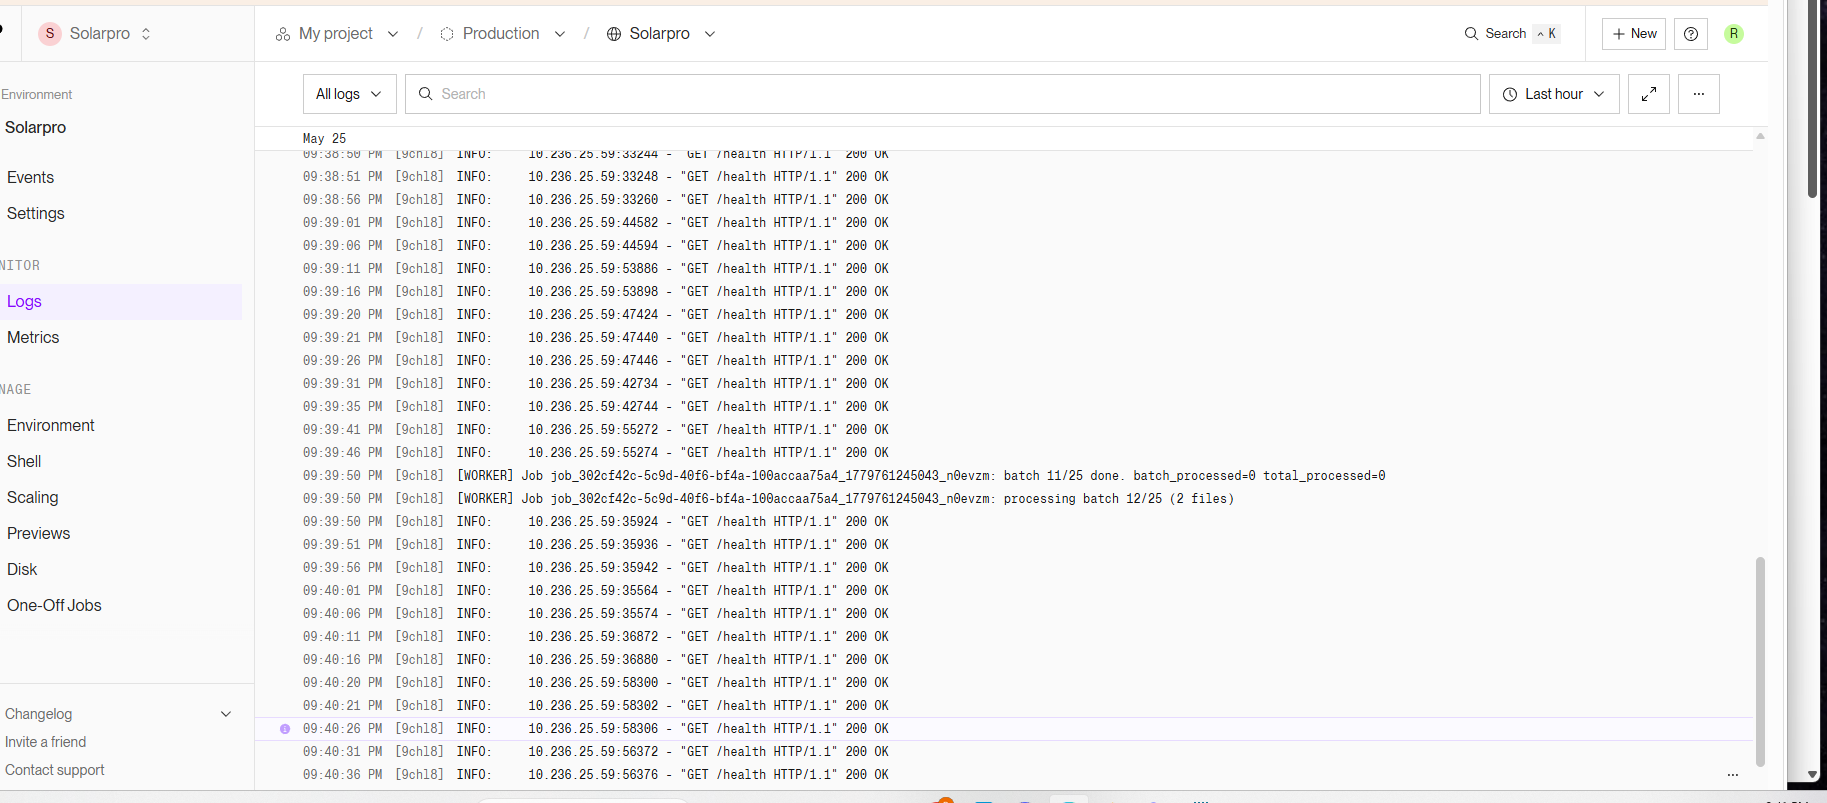
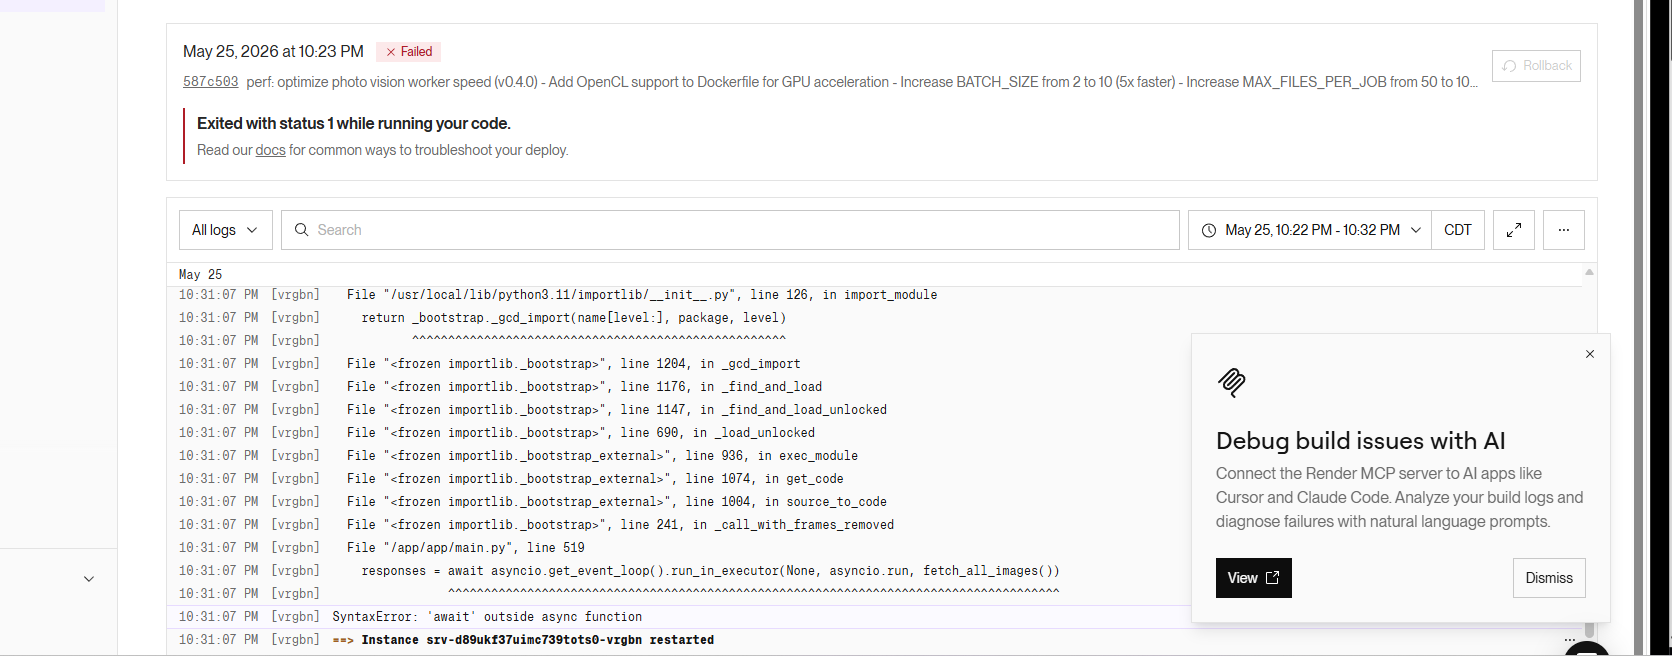
fix: revert async image fetching causing deployment failure
- Removed problematic async parallel fetching code
- Keep httpx for faster sync fetching (still better than requests)
- Restore simple sequential batch processing
- All other optimizations remain (BATCH_SIZE=10, OpenCL support, etc.)

This should fix the deployment failure while keeping most of the speed improvements.

diff --git a/external-workers/opencv-photo-vision/app/main.py b/external-workers/opencv-photo-vision/app/main.py
@@ -508,48 +508,10 @@ def _run_all_batches_sync(render_job_id: str, job: VisionJob) -> dict[str, Any]:
         print(f"[WORKER] Job {job_id}: processing batch {batch_idx + 1}/{total_batches} ({len(batch_files)} files)")
 
         try:
-            # Fetch all image bytes in parallel first (faster than sequential)
-            async def fetch_all_images():
-                async with httpx.AsyncClient(timeout=FETCH_TIMEOUT_SECONDS, follow_redirects=True, limits=httpx.Limits(max_keepalive_connections=20, max_connections=50)) as client:
-                    tasks = [client.get(fj.fileUrl) for fj in batch_files]
-                    responses = await asyncio.gather(*tasks, return_exceptions=True)
-                    return responses
-
-            # Run async fetch in executor
-            responses = await asyncio.get_event_loop().run_in_executor(None, asyncio.run, fetch_all_images())
-
-            # Process fetched images
             batch_file_results = []
-            for i, file_job in enumerate(batch_files):
-                try:
-                    response = responses[i]
-                    if isinstance(response, Exception):
-                        raise Exception(f"Fetch failed: {response}")
-                    if response.status_code != 200:
-                        raise Exception(f"HTTP {response.status_code}")
-                    if len(response.content) > MAX_IMAGE_BYTES:
-                        raise ValueError(f"image exceeds max byte size {MAX_IMAGE_BYTES}")
-
-                    # Process image (same as before, but with pre-fetched bytes)
-                    file_result = analyze_file_with_bytes(job, file_job, response.content, created_at)
-                    batch_file_results.append(file_result)
-                except Exception as exc:
-                    # Create failed result for this file
-                    batch_file_results.append({
-                        "surveyId": job.surveyId,
-                        "fileId": file_job.fileId,
-                        "fileUrl": file_job.fileUrl,
-                        "filename": file_job.filename,
-                        "analyzed": False,
-                        "error": str(exc)[:300],
-                        "metadata": {"widthPx": None, "heightPx": None, "format": None, "byteSize": 0, "sha256": None, "dominantBrightness": None, "sharpnessScore": None, "qualityScore": None},
-                        "thumbnailDataUrl": None,
-                        "edgeSummary": None,
-                        "candidates": [],
-                        "limitations": ["Image bytes could not be fetched or decoded; no candidates emitted.", *base_limitations()],
-                        "runHash": stable_hash({"surveyId": job.surveyId, "fileId": file_job.fileId, "error": str(exc)}),
-                    })
-
+            for file_job in batch_files:
+                file_result = analyze_file(job, file_job, created_at)
+                batch_file_results.append(file_result)
                 gc.collect()
 
             # Build per-batch run hash for the batch's files
@@ -905,6 +867,37 @@ def build_candidates(job: VisionJob, file_job: FileJob, byte_hash: str, created_
         deterministic_hash = stable_hash({**candidate, "candidateId": "stable", "deterministicHash": "stable", "createdAt": "stable-created-at"})
         finalized.append({**candidate, "candidateId": f"ospv_{deterministic_hash[:24]}_{index + 1}", "deterministicHash": deterministic_hash})
     return finalized
+
+
+def analyze_file(job: VisionJob, file_job: FileJob, created_at: str) -> dict[str, Any]:
+    """Fetch and analyze a file (legacy wrapper)."""
+    try:
+        started = time.time()
+        # Use httpx for faster sync fetching
+        with httpx.Client(timeout=FETCH_TIMEOUT_SECONDS, follow_redirects=True) as client:
+            response = client.get(file_job.fileUrl)
+            response.raise_for_status()
+            content = response.content
+        if len(content) > MAX_IMAGE_BYTES:
+            raise ValueError(f"image exceeds max byte size {MAX_IMAGE_BYTES}")
+        return analyze_file_with_bytes(job, file_job, content, created_at)
+    except Exception as exc:
+        gc.collect()
+        run_hash = stable_hash({"surveyId": job.surveyId, "fileId": file_job.fileId, "error": str(exc)})
+        return {
+            "surveyId": job.surveyId,
+            "fileId": file_job.fileId,
+            "fileUrl": file_job.fileUrl,
+            "filename": file_job.filename,
+            "analyzed": False,
+            "error": str(exc)[:300],
+            "metadata": {"widthPx": None, "heightPx": None, "format": None, "byteSize": 0, "sha256": None, "dominantBrightness": None, "sharpnessScore": None, "qualityScore": None},
+            "thumbnailDataUrl": None,
+            "edgeSummary": None,
+            "candidates": [],
+            "limitations": ["Image bytes could not be fetched or decoded by the external OpenCV worker; no candidates emitted for this file.", *base_limitations()],
+            "runHash": run_hash,
+        }
 
 
 def tool_requested(job: VisionJob, tool: str) -> bool:
